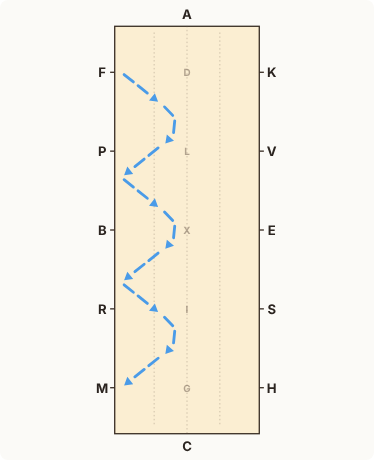
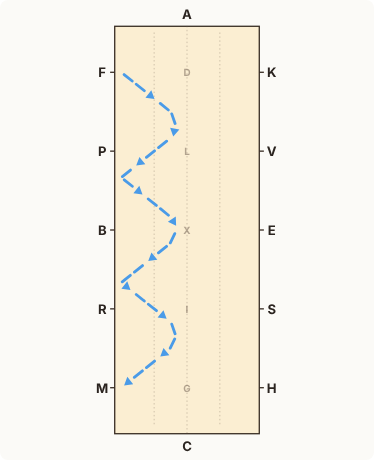
Contre-changement depuis la piste : retours en angle vif posés sur la piste, tracé continu
Claude-Session: https://claude.ai/code/session_01FZQjh3DYuWpytPQsjZzFzo

diff --git a/app.js b/app.js
@@ -16,7 +16,7 @@
 (() => {
   // Garde-fou de version : si le navigateur (ou GitHub Pages) a servi un ancien app.js ou style.css
   // avec la nouvelle page, index.html recharge app.js en contournant le cache, et la feuille de style ici.
-  const APP_V = '2026111511';
+  const APP_V = '2026111512';
   if (window.APP_V && window.APP_V !== APP_V) return;   // fichier périmé : on ne lance rien
   window.APP_LOADED = APP_V;
   (function checkCss() {
@@ -374,25 +374,19 @@
     const mirror = n > 1 && Math.abs(a.x - w / 2) < 0.05 && Math.abs(b.x - w / 2) < 0.05;
     const dy = b.y - a.y, sg = Math.sign(dy) || 1, seg = Math.abs(dy) / (2 * n);
     const f = Math.min(ui.ccFlat, seg * 0.8) / 2;
-    // depuis la piste, chaque pointe est un tracé à part : les retours touchent exactement la piste
-    // (pas d'arrondi qui les décolle du bord) ; du milieu au milieu, un seul tracé continu
-    const out = [];
-    let pts = [a];
+    // depuis la piste, les retours entre deux pointes sont des angles vifs posés sur la piste
+    // (pas d'arrondi qui les décolle du bord)
+    const pts = [a];
     for (let k = 0; k < n; k++) {
       const yc = a.y + dy * (2 * k + 1) / (2 * n);
       const x = mirror && k % 2 ? w - ax : ax;
       if (f > 0.05) pts.push(pt(r3(x), r3(yc - sg * f)), pt(r3(x), r3(yc + sg * f)));
       else pts.push(pt(r3(x), r3(yc)));
-      if (!mirror && k < n - 1) {
-        const back = pt(r3(a.x + (b.x - a.x) * (2 * k + 2) / (2 * n)), r3(a.y + dy * (2 * k + 2) / (2 * n)));
-        pts.push(back);
-        out.push({ t: 'line', g: ui.gait, m: ui.move, p: pts });
-        pts = [back];
-      }
+      if (!mirror && k < n - 1)
+        pts.push({ x: r3(a.x + (b.x - a.x) * (2 * k + 2) / (2 * n)), y: r3(a.y + dy * (2 * k + 2) / (2 * n)), sharp: 1 });
     }
     pts.push(b);
-    out.push({ t: 'line', g: ui.gait, m: ui.move, p: pts });
-    return out;
+    return [{ t: 'line', g: ui.gait, m: ui.move, p: pts }];
   }
   const CC_N = [1, 2, 3, 4];
   const CC_FLAT = [0, 4, 6, 8];
@@ -440,7 +434,7 @@
     return hs;
   }
   function moveShape(sh, dx, dy) {
-    const mv = q => q && pt(Math.round((q.x + dx) * 1000) / 1000, Math.round((q.y + dy) * 1000) / 1000);
+    const mv = q => q && { ...q, x: Math.round((q.x + dx) * 1000) / 1000, y: Math.round((q.y + dy) * 1000) / 1000 };
     if (sh.p) sh.p = sh.p.map(mv);
     if (sh.t === 'sym') { sh.x = Math.round((sh.x + dx) * 1000) / 1000; sh.y = Math.round((sh.y + dy) * 1000) / 1000; }
     for (const k of ['a', 'b', 'c']) if (sh[k] && typeof sh[k] === 'object') sh[k] = mv(sh[k]);
@@ -454,7 +448,7 @@
     for (const ref of refs) {
       const sh = shapes[ref.i];
       if (!sh) continue;
-      if (ref.key === 'p') sh.p[ref.k] = pt(q.x, q.y);
+      if (ref.key === 'p') sh.p[ref.k] = { ...sh.p[ref.k], x: q.x, y: q.y };   // garde « sharp »
       else if (ref.key === 'sym') { sh.x = q.x; sh.y = q.y; }
       else if (ref.key === 'circle') {
         const dx = q.x - from.x, dy = q.y - from.y;
@@ -502,6 +496,7 @@
       const A = pts[i - 1], B = pts[i], C = pts[i + 1];
       const lab = dist(A, B), lbc = dist(B, C);
       if (lab < 1e-6 || lbc < 1e-6) continue;
+      if (B.sharp) { out.push(B); continue; }   // angle vif voulu (ex. retour sur la piste d'un zigzag)
       const u1 = { x: (A.x - B.x) / lab, y: (A.y - B.y) / lab };
       const u2 = { x: (C.x - B.x) / lbc, y: (C.y - B.y) / lbc };
       const theta = Math.acos(Math.max(-1, Math.min(1, u1.x * u2.x + u1.y * u2.y)));

diff --git a/index.html b/index.html
@@ -8,7 +8,7 @@
   <link rel="preconnect" href="https://fonts.googleapis.com">
   <link rel="preconnect" href="https://fonts.gstatic.com" crossorigin>
   <link rel="stylesheet" href="https://fonts.googleapis.com/css2?family=Inter:ital,wght@0,400;0,500;0,600;0,700;1,400&display=swap">
-  <link rel="stylesheet" href="style.css?v=2026111511">
+  <link rel="stylesheet" href="style.css?v=2026111512">
 </head>
 <body>
   <header class="topbar no-print">
@@ -84,7 +84,7 @@
 
   <script>
     // même numéro que dans app.js et style.css ; si le cache sert un ancien app.js, on le recharge
-    window.APP_V = '2026111511';
+    window.APP_V = '2026111512';
     (function load(retry) {
       var s = document.createElement('script');
       s.src = 'app.js?v=' + window.APP_V + (retry ? '&r=' + Date.now() : '');

diff --git a/style.css b/style.css
@@ -1,6 +1,6 @@
 /* Éditeur de reprises de dressage — Copyright (C) 2026 gbulleryahen-hash — licence GNU GPL v3 ou ultérieure (voir LICENSE) */
 :root {
-  --css-v: "2026111511";   /* même numéro que dans index.html et app.js */
+  --css-v: "2026111512";   /* même numéro que dans index.html et app.js */
   --bg: #f6f3ee;
   --panel: #ffffff;
   --ink: #2b2420;
